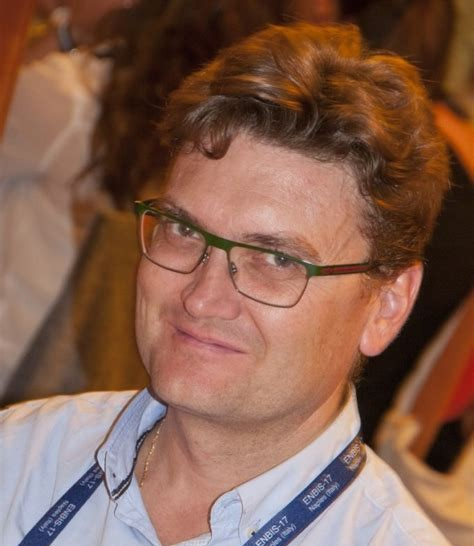
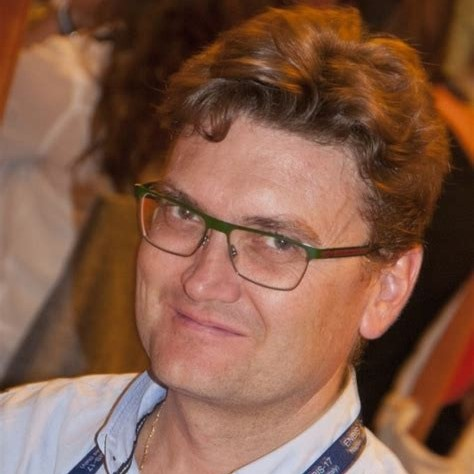
Fix square images

diff --git a/about/people/index.html b/about/people/index.html
@@ -26,7 +26,7 @@ author: URJCDataScience
 								<!-- team-member: start -->
 								<div class="team-member image-box style-2 mb-20 light-gray-bg text-center">
 									<div class="overlay-container overlay-visible">
-										<img src="{{ site.url }}/images/people/isaac_martin.jpg" onmouseover="this.src='{{ site.url }}/images/people/isaac_martin_ouat.jpg'" onmouseout="this.src='{{ site.url }}/images/people/isaac_martin.jpg'" alt="Isaac Martin de Diego" style="width: 280px; height: auto; margin-right: 10px;">
+										<img src="{{ site.url }}/images/people/isaac_martin.jpg" onmouseover="this.src='{{ site.url }}/images/people/isaac_martin_ouat.jpg'" onmouseout="this.src='{{ site.url }}/images/people/isaac_martin.jpg'" alt="Isaac Martin de Diego" style="width: 350px; height: auto; margin-right: 10px;">
 									</div>
 									<div class="body">
 										<h4 class="margin-clear">Isaac Martín de Diego</h4>
@@ -45,7 +45,7 @@ author: URJCDataScience
 								<!-- team-member: start -->
 								<div class="team-member image-box style-2 mb-20 light-gray-bg text-center">
 									<div class="overlay-container overlay-visible">
-										<img src="{{ site.url }}/images/people/antonio_alonso.jpg" alt="Antonio Alonso Ayuso" style="width: 280px; height: auto; margin-right: 10px;">
+										<img src="{{ site.url }}/images/people/antonio_alonso.jpg" alt="Antonio Alonso Ayuso" style="width: 350px; height: auto; margin-right: 10px;">
 									</div>
 									<div class="body">
 										<h4 class="margin-clear">Antonio Alonso Ayuso</h4>
@@ -63,7 +63,7 @@ author: URJCDataScience
 								<!-- team-member: start -->
 								<div class="team-member image-box style-2 mb-20 light-gray-bg text-center">
 									<div class="overlay-container overlay-visible">
-										<img src="{{ site.url }}/images/people/moguerza.jpeg" alt="Javier Martínez Moguerza" style="width: 280px; height: auto; margin-right: 10px;">
+										<img src="{{ site.url }}/images/people/moguerza.jpeg" alt="Javier Martínez Moguerza" style="width: 350px; height: auto; margin-right: 10px;">
 									</div>
 									<div class="body">
 										<h4 class="margin-clear">Javier M. Moguerza</h4>
@@ -81,7 +81,7 @@ author: URJCDataScience
 								<!-- team-member: start -->
 								<div class="team-member image-box style-2 mb-20 light-gray-bg text-center">
 									<div class="overlay-container overlay-visible">
-										<img src="{{ site.url }}/images/people/felipe_ortega.jpg" alt="Felipe Ortega" style="width: 280px; height: auto; margin-right: 10px;">
+										<img src="{{ site.url }}/images/people/felipe_ortega.jpg" alt="Felipe Ortega" style="width: 350px; height: auto; margin-right: 10px;">
 									</div>
 									<div class="body">
 										<h4 class="margin-clear">Felipe Ortega</h4>
@@ -105,7 +105,7 @@ author: URJCDataScience
 								<!-- team-member: start -->
 								<div class="team-member image-box style-2 mb-20 light-gray-bg text-center">
 									<div class="overlay-container overlay-visible">
-										<img src="{{ site.url }}/images/people/emilionew.jpeg" alt="Emilio López Cano" style="width: 280px; height: auto; margin-right: 10px;">
+										<img src="{{ site.url }}/images/people/emilionew.jpeg" alt="Emilio López Cano" style="width: 350px; height: auto; margin-right: 10px;">
 									</div>
 									<div class="body">
 										<h4 class="margin-clear">Emilio López Cano</h4>
@@ -123,7 +123,7 @@ author: URJCDataScience
 								<!-- team-member: start -->
 								<div class="team-member image-box style-2 mb-20 light-gray-bg text-center">
 									<div class="overlay-container overlay-visible">
-										<img src="{{ site.url }}/images/people/albertofernandez.jpg" alt="Alberto Fernández" style="width: 280px; height: auto; margin-right: 10px;">
+										<img src="{{ site.url }}/images/people/albertofernandez.jpg" alt="Alberto Fernández" style="width: 350px; height: auto; margin-right: 10px;">
 									</div>
 									<div class="body">
 										<h4 class="margin-clear">Alberto Fernández</h4>
@@ -140,7 +140,7 @@ author: URJCDataScience
 								<!-- team-member: start -->
 								<div class="team-member image-box style-2 mb-20 light-gray-bg text-center">
 									<div class="overlay-container overlay-visible">
-										<img src="{{ site.url }}/images/people/Carmen.jpg" onmouseover="this.src='{{ site.url }}/images/people/carmenchica.jpg'" onmouseout="this.src='{{ site.url }}/images/people/Carmen.jpg'" alt="Carmen Lancho Martín" style="width: 280px; height: auto; margin-right: 10px;">
+										<img src="{{ site.url }}/images/people/Carmen.jpg" onmouseover="this.src='{{ site.url }}/images/people/carmenchica.jpg'" onmouseout="this.src='{{ site.url }}/images/people/Carmen.jpg'" alt="Carmen Lancho Martín" style="width: 350px; height: auto; margin-right: 10px;">
 									</div>
 									<div class="body">
 										<h4 class="margin-clear">Carmen Lancho Martín</h4>
@@ -158,7 +158,7 @@ author: URJCDataScience
 								<!-- team-member: start -->
 								<div class="team-member image-box style-2 mb-20 light-gray-bg text-center">
 									<div class="overlay-container overlay-visible">
-										<img src="{{ site.url }}/images/people/marina.jpeg" onmouseover="this.src='{{ site.url }}/images/people/marinapeque.jpg'" onmouseout="this.src='{{ site.url }}/images/people/marina.jpeg'" alt="Marina Cuesta Santa Teresa" style="width: 280px; height: auto; margin-right: 10px;">
+										<img src="{{ site.url }}/images/people/marina.jpeg" onmouseover="this.src='{{ site.url }}/images/people/marinapeque.jpg'" onmouseout="this.src='{{ site.url }}/images/people/marina.jpeg'" alt="Marina Cuesta Santa Teresa" style="width: 350px; height: auto; margin-right: 10px;">
 									</div>
 									<div class="body">
 										<h4 class="margin-clear">Marina Cuesta Santa Teresa</h4>
@@ -181,7 +181,7 @@ author: URJCDataScience
 								<!-- team-member: start -->
 								<div class="team-member image-box style-2 mb-20 light-gray-bg text-center">
 									<div class="overlay-container overlay-visible">
-										<img src="{{ site.url }}/images/people/victor_acena_1.jpg" alt="Víctor Aceña" style="width: 280px; height: auto; margin-right: 10px;">
+										<img src="{{ site.url }}/images/people/victor_acena_1.jpg" alt="Víctor Aceña" style="width: 350px; height: auto; margin-right: 10px;">
 									</div>
 									<div class="body">
 										<h4 class="margin-clear">Víctor Aceña</h4>
@@ -199,7 +199,7 @@ author: URJCDataScience
 								<!-- team-member: start -->
 								<div class="team-member image-box style-2 mb-20 light-gray-bg text-center">
 									<div class="overlay-container overlay-visible">
-										<img src="{{ site.url }}/images/people/team-member-1.jpg" alt="María Teresa González de Lena" style="width: 280px; height: auto; margin-right: 10px;">
+										<img src="{{ site.url }}/images/people/team-member-1.jpg" alt="María Teresa González de Lena" style="width: 350px; height: auto; margin-right: 10px;">
 									</div>
 									<div class="body">
 										<h4 class="margin-clear">María Teresa González de Lena</h4>
@@ -216,7 +216,7 @@ author: URJCDataScience
 								<!-- team-member: start -->
 								<div class="team-member image-box style-2 mb-20 light-gray-bg text-center">
 									<div class="overlay-container overlay-visible">
-										<img src="{{ site.url }}/images/people/foto_carlos.grima.jpg" alt="Carlos Grima" style="width: 280px; height: auto; margin-right: 10px;">
+										<img src="{{ site.url }}/images/people/foto_carlos.grima.jpg" alt="Carlos Grima" style="width: 350px; height: auto; margin-right: 10px;">
 									</div>
 									<div class="body">
 										<h4 class="margin-clear">Carlos Grima</h4>
@@ -233,7 +233,7 @@ author: URJCDataScience
 								<!-- team-member: start -->
 								<div class="team-member image-box style-2 mb-20 light-gray-bg text-center">
 									<div class="overlay-container overlay-visible">
-										<img src="{{ site.url }}/images/people/foto_gemagutierrez.jpg" alt="Gema Gutiérrez" style="width: 280px; height: auto; margin-right: 10px;">
+										<img src="{{ site.url }}/images/people/foto_gemagutierrez.jpg" alt="Gema Gutiérrez" style="width: 350px; height: auto; margin-right: 10px;">
 									</div>
 									<div class="body">
 										<h4 class="margin-clear">Gema Gutiérrez</h4>
@@ -255,7 +255,7 @@ author: URJCDataScience
 								<!-- team-member: start -->
 								<div class="team-member image-box style-2 mb-20 light-gray-bg text-center">
 									<div class="overlay-container overlay-visible">
-										<img src="{{ site.url }}/images/people/Laureano.jpg" alt="Laureano Escudero" style="width: 280px; height: auto; margin-right: 10px;">
+										<img src="{{ site.url }}/images/people/Laureano.jpg" alt="Laureano Escudero" style="width: 350px; height: auto; margin-right: 10px;">
 									</div>
 									<div class="body">
 										<h4 class="margin-clear">Laureano Escudero</h4>
@@ -272,7 +272,7 @@ author: URJCDataScience
 								<!-- team-member: start -->
 								<div class="team-member image-box style-2 mb-20 light-gray-bg text-center">
 									<div class="overlay-container overlay-visible">
-										<img src="{{ site.url }}/images/people/garzas.jpeg" alt="Javier Garzás" style="width: 280px; height: auto; margin-right: 10px;">
+										<img src="{{ site.url }}/images/people/garzas.jpeg" alt="Javier Garzás" style="width: 350px; height: auto; margin-right: 10px;">
 									</div>
 									<div class="body">
 										<h4 class="margin-clear">Javier Garzás</h4>
@@ -289,7 +289,7 @@ author: URJCDataScience
 								<!-- team-member: start -->
 								<div class="team-member image-box style-2 mb-20 light-gray-bg text-center">
 									<div class="overlay-container overlay-visible">
-										<img src="{{ site.url }}/images/people/Foto_JGM.jpeg" alt="Javier Gómez" style="width: 280px; height: auto; margin-right: 10px;">
+										<img src="{{ site.url }}/images/people/Foto_JGM.jpeg" alt="Javier Gómez" style="width: 350px; height: auto; margin-right: 10px;">
 									</div>
 									<div class="body">
 										<h4 class="margin-clear">Javier Gómez</h4>
@@ -306,7 +306,7 @@ author: URJCDataScience
 								<!-- team-member: start -->
 								<div class="team-member image-box style-2 mb-20 light-gray-bg text-center">
 									<div class="overlay-container overlay-visible">
-										<img src="{{ site.url }}/images/people/CesarAlfaro.jpg" alt="César Alfaro" style="width: 280px; height: auto; margin-right: 10px;">
+										<img src="{{ site.url }}/images/people/CesarAlfaro.jpg" alt="César Alfaro" style="width: 350px; height: auto; margin-right: 10px;">
 									</div>
 									<div class="body">
 										<h4 class="margin-clear">César Alfaro</h4>
@@ -328,7 +328,7 @@ author: URJCDataScience
 								<!-- team-member: start -->
 								<div class="team-member image-box style-2 mb-20 light-gray-bg text-center">
 									<div class="overlay-container overlay-visible">
-										<img src="{{ site.url }}/images/people/mariajesusalgar.JPG" alt="María Jesús Algar" style="width: 280px; height: auto; margin-right: 10px;">
+										<img src="{{ site.url }}/images/people/mariajesusalgar.JPG" alt="María Jesús Algar" style="width: 350px; height: auto; margin-right: 10px;">
 									</div>
 									<div class="body">
 										<h4 class="margin-clear">María Jesús Algar</h4>
@@ -365,7 +365,7 @@ author: URJCDataScience
 								<!-- team-member: start -->
 								<div class="team-member image-box style-2 mb-20 light-gray-bg text-center">
 									<div class="overlay-container overlay-visible">
-										<img src="{{ site.url }}/images/people/saugar.jpeg" alt="Javier Saugar López" style="width: 280px; height: auto; margin-right: 10px;">
+										<img src="{{ site.url }}/images/people/saugar.jpeg" alt="Javier Saugar López" style="width: 350px; height: auto; margin-right: 10px;">
 									</div>
 									<div class="body">
 										<h4 class="margin-clear">Javier Saugar López</h4>
@@ -383,7 +383,7 @@ author: URJCDataScience
 								<!-- team-member: start -->
 								<div class="team-member image-box style-2 mb-20 light-gray-bg text-center">
 									<div class="overlay-container overlay-visible">
-										<img src="{{ site.url }}/images/people/cesarg.jpeg" alt="César González Fernández" style="width: 280px; height: auto; margin-right: 10px;">
+										<img src="{{ site.url }}/images/people/cesarg.jpeg" alt="César González Fernández" style="width: 350px; height: auto; margin-right: 10px;">
 									</div>
 									<div class="body">
 										<h4 class="margin-clear">César González Fernández</h4>
@@ -401,7 +401,7 @@ author: URJCDataScience
 								<!-- team-member: start -->
 								<div class="team-member image-box style-2 mb-20 light-gray-bg text-center">
 									<div class="overlay-container overlay-visible">
-										<img src="{{ site.url }}/images/people/cabezas.jpeg" alt="Javier Cabezas Gívica" style="width: 280px; height: auto; margin-right: 10px;">
+										<img src="{{ site.url }}/images/people/cabezas.jpeg" alt="Javier Cabezas Gívica" style="width: 350px; height: auto; margin-right: 10px;">
 									</div>
 									<div class="body">
 										<h4 class="margin-clear">Javier Cabezas Gívica</h4>
@@ -419,7 +419,7 @@ author: URJCDataScience
 								<!-- team-member: start -->
 								<div class="team-member image-box style-2 mb-20 light-gray-bg text-center">
 									<div class="overlay-container overlay-visible">
-										<img src="{{ site.url }}/images/people/natalia.jpeg" alt="Natalia Madrueño Sierro" style="width: 280px; height: auto; margin-right: 10px;">
+										<img src="{{ site.url }}/images/people/natalia.jpeg" alt="Natalia Madrueño Sierro" style="width: 350px; height: auto; margin-right: 10px;">
 									</div>
 									<div class="body">
 										<h4 class="margin-clear">Natalia Madrueño Sierro</h4>
@@ -442,7 +442,7 @@ author: URJCDataScience
 								<!-- team-member: start -->
 								<div class="team-member image-box style-2 mb-20 light-gray-bg text-center">
 									<div class="overlay-container overlay-visible">
-										<img src="{{ site.url }}/images/people/ruben_rodriguez_1.jpg" alt="Rubén Rodríguez Fernández" style="width: 280px; height: auto; margin-right: 10px;">
+										<img src="{{ site.url }}/images/people/ruben_rodriguez_1.jpg" alt="Rubén Rodríguez Fernández" style="width: 350px; height: auto; margin-right: 10px;">
 									</div>
 									<div class="body">
 										<h4 class="margin-clear">Rubén Rodríguez Fernández</h4>
@@ -460,7 +460,7 @@ author: URJCDataScience
 								<!-- team-member: start -->
 								<div class="team-member image-box style-2 mb-20 light-gray-bg text-center">
 									<div class="overlay-container overlay-visible">
-										<img src="{{ site.url }}/images/people/jsanchezgo.jpg" alt="Javier Sánchez García-Ochoa" style="width: 280px; height: auto; margin-right: 10px;">
+										<img src="{{ site.url }}/images/people/jsanchezgo.jpg" alt="Javier Sánchez García-Ochoa" style="width: 350px; height: auto; margin-right: 10px;">
 									</div>
 									<div class="body">
 										<h4 class="margin-clear">Javier Sánchez García-Ochoa</h4>
@@ -478,7 +478,7 @@ author: URJCDataScience
 								<!-- team-member: start -->
 								<div class="team-member image-box style-2 mb-20 light-gray-bg text-center">
 									<div class="overlay-container overlay-visible">
-										<img src="{{ site.url }}/images/people/alvaronovillo.jpeg" onmouseover="this.src='{{ site.url }}/images/people/alvaronovillo_peque.jpg'" onmouseout="this.src='{{ site.url }}/images/people/alvaronovillo.jpeg'" alt="Álvaro Novillo Correas" style="width: 280px; height: auto; margin-right: 10px;">
+										<img src="{{ site.url }}/images/people/alvaronovillo.jpg" onmouseover="this.src='{{ site.url }}/images/people/alvaronovillo_peque.jpg'" onmouseout="this.src='{{ site.url }}/images/people/alvaronovillo.jpg'" alt="Álvaro Novillo Correas" style="width: 350px; height: auto; margin-right: 10px;">
 									</div>
 									<div class="body">
 										<h4 class="margin-clear">Álvaro Novillo Correas</h4>
@@ -496,7 +496,7 @@ author: URJCDataScience
 								<!-- team-member: start -->
 								<div class="team-member image-box style-2 mb-20 light-gray-bg text-center">
 									<div class="overlay-container overlay-visible">
-										<img src="{{ site.url }}/images/people/claracontreras.jpg" alt="Clara Contreras Nevares" style="width: 280px; height: auto; margin-right: 10px;">
+										<img src="{{ site.url }}/images/people/claracontreras.jpg" alt="Clara Contreras Nevares" style="width: 350px; height: auto; margin-right: 10px;">
 									</div>
 									<div class="body">
 										<h4 class="margin-clear">Clara Contreras Nevares</h4>
@@ -519,7 +519,7 @@ author: URJCDataScience
 								<!-- team-member: start -->
 								<div class="team-member image-box style-2 mb-20 light-gray-bg text-center">
 									<div class="overlay-container overlay-visible">
-										<img src="{{ site.url }}/images/people/team-member-1.jpg" alt="Enrique Roa Rastrilla" style="width: 280px; height: auto; margin-right: 10px;">
+										<img src="{{ site.url }}/images/people/team-member-1.jpg" alt="Enrique Roa Rastrilla" style="width: 350px; height: auto; margin-right: 10px;">
 									</div>
 									<div class="body">
 										<h4 class="margin-clear">Enrique Roa Rastrilla</h4>
@@ -556,7 +556,7 @@ author: URJCDataScience
 								<!-- team-member: start -->
 								<div class="team-member image-box style-2 mb-20 light-gray-bg text-center">
 									<div class="overlay-container overlay-visible">
-										<img src="{{ site.url }}/images/people/juan_jose_fdez_1.jpg" alt="Juanjo Fernandez" style="width: 280px; height: auto; margin-right: 10px;">
+										<img src="{{ site.url }}/images/people/juan_jose_fdez_1.jpg" alt="Juanjo Fernandez" style="width: 350px; height: auto; margin-right: 10px;">
 									</div>
 									<div class="body">
 										<h4 class="margin-clear">Juan José Fernández</h4>
